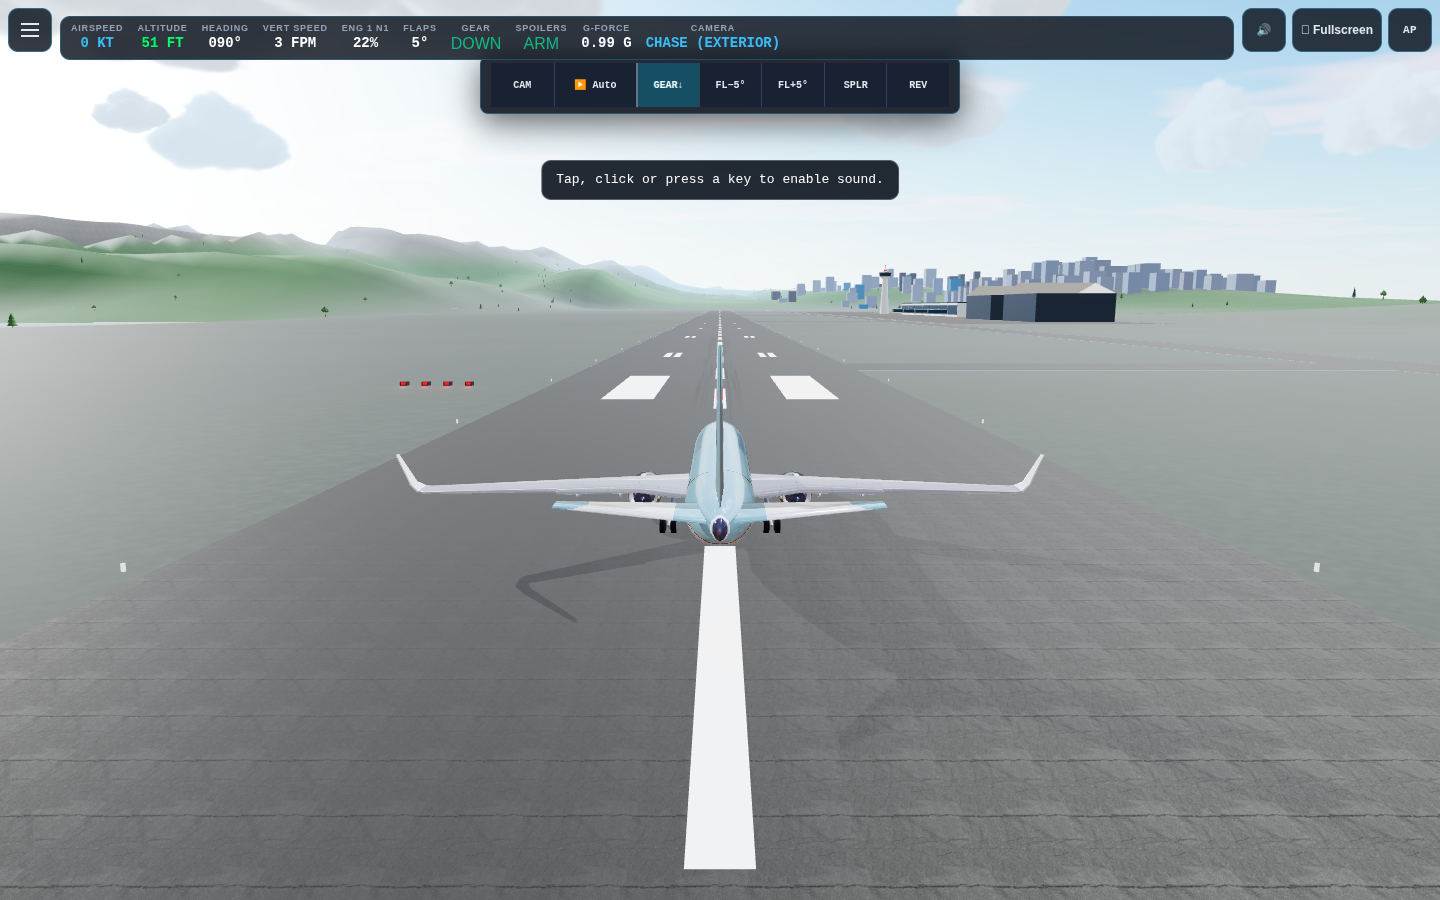
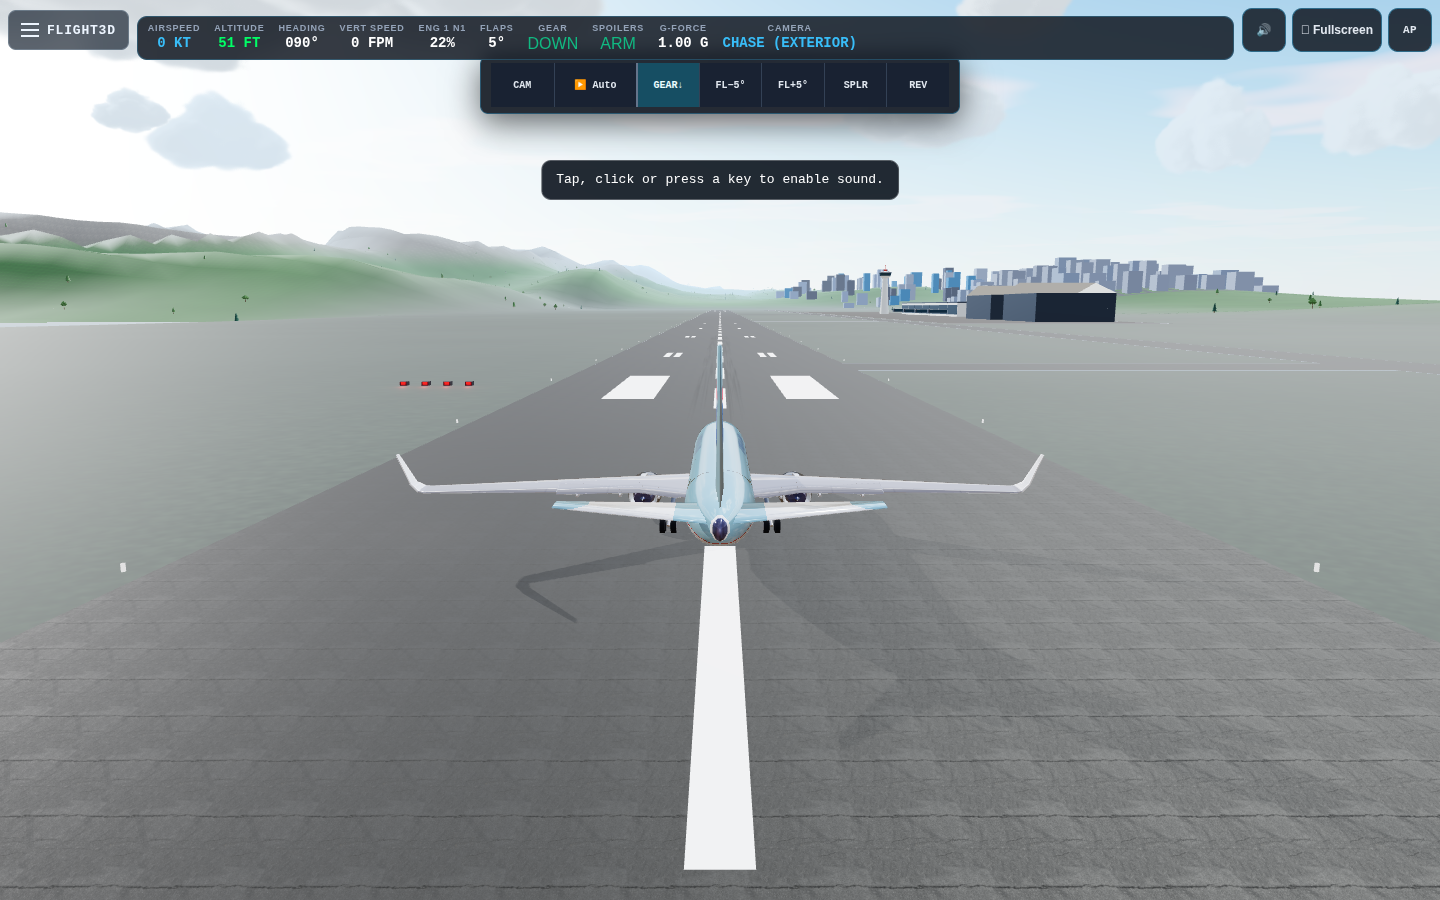
feat: align HUD chrome with balanced transparent layout and eliminate mobile overlap

Changed region(s): [[0.0, 0.0, 0.5938, 0.0933], [0.5312, 0.28, 0.875, 0.3422], [0.875, 0.3111, 0.9062, 0.3422]]

diff --git a/src/styles/lobby-and-overlays.css b/src/styles/lobby-and-overlays.css
@@ -222,23 +222,29 @@ body.booting .menu-toggle { display: none !important; }
   display: inline-flex;
   align-items: center;
   justify-content: center;
-  width: 44px;
-  height: 44px;
-  padding: 0;
-  border-radius: 10px;
-  border: 1px solid rgba(56, 189, 248, 0.4);
-  background: rgba(10, 16, 26, 0.82);
-  color: #e2e8f0;
+  gap: 8px;
+  min-width: 44px;
+  height: 40px;
+  padding: 0 12px;
+  border-radius: 8px;
+  border: 1px solid rgba(181, 211, 234, 0.25);
+  background: rgba(10, 22, 36, 0.65);
+  backdrop-filter: blur(12px);
+  -webkit-backdrop-filter: blur(12px);
+  color: #edf5ff;
+  font: 700 13px system-ui, sans-serif;
+  letter-spacing: 0.8px;
   cursor: pointer;
   pointer-events: auto;
   transition: background 0.2s ease, border-color 0.2s ease;
 }
+.compact-ui .menu-toggle-title { display: none; }
 /* With the strip hidden in the menu, keep its close affordance off the card. */
 body[data-flow="lobby"] .menu-toggle {
   top: var(--edge-top);
   left: var(--edge-left);
 }
-.menu-toggle:hover { background: rgba(30, 41, 59, 0.95); border-color: #38bdf8; }
+.menu-toggle:hover { background: rgba(30, 41, 59, 0.85); border-color: #38bdf8; }
 .menu-toggle:focus-visible { outline: 2px solid #67e8f9; }
 .menu-toggle .menu-toggle-glyph { font-size: 19px; line-height: 1; }
 .menu-toggle-glyph:empty::before {
@@ -456,71 +462,142 @@ body[data-flow="lobby"] #incheon-attribution-chip { display: none; }
 #hud-view { position: fixed; inset: 0; pointer-events: none; color: #edf5ff; z-index: 60; }
 #hud-view[hidden], #hud-view [hidden] { display: none !important; }
 .hud-flight-glass { position: absolute; inset: 0; width: 100%; height: 100%; }
-#hud-view button, .hud-control-card, .hud-camera-switch, .hud-flight-footer, .hud-systems-panel {
-  background: rgba(12, 27, 44, .80); border: 1px solid rgba(181, 211, 234, .40); border-radius: 9px;
-  box-shadow: 0 2px 8px #0002; color: #edf5ff;
-}
-#hud-view button { pointer-events: auto; min-height: 44px; padding: 10px; font: 600 12px system-ui; cursor: pointer; }
-#hud-view button:hover:not(:disabled), #hud-view button:focus-visible { background: #24465e; outline: 2px solid #a9f59a; outline-offset: 2px; }
-#hud-view button:disabled { color: #96a3b3; background: rgba(21, 33, 48, .72); border-color: #68798c80; cursor: default; box-shadow: none; }
-#hud-view button[aria-pressed="true"], #hud-view button.is-active { border-color: #b8ff9b; color: #b8ff9b; }
-.hud-camera-switch { position: absolute; top: var(--edge-top); right: var(--edge-right); display: flex; align-items: center; gap: 10px; font: 12px system-ui; pointer-events: auto; }
-#hud-view .hud-camera-switch button { border: 0; background: transparent; font-size: 25px; min-width: 44px; padding: 0; }
-.hud-camera-switch b { margin-left: 10px; }
-.hud-side { position: absolute; top: max(80px, 17%); width: 112px; display: grid; gap: 9px; pointer-events: none; }
-.hud-side-left { left: var(--edge-left); }
-.hud-side-right { right: var(--edge-right); }
-.hud-control-card { display: grid; text-align: center; padding: 10px 0 0; gap: 5px; font: 600 12px system-ui; overflow: hidden; }
-.hud-control-card output { font: 19px monospace; }
-.hud-pair { display: flex; }
-#hud-view .hud-pair button { width: 50%; border-radius: 0; border-width: 1px 0 0; font-size: 20px; background: transparent; }
-#hud-view .hud-pair button + button { border-left-width: 1px; }
-.hud-unavailable { display: grid; gap: 5px; }
-.hud-unavailable small { font-size: 10px; font-weight: 400; }
-.hud-unavailable small::before { content: '⊘ '; }
-.hud-flight-footer { position: absolute; bottom: var(--edge-bottom); left: var(--edge-left); right: var(--edge-right); display: grid; grid-template-columns: repeat(6, minmax(0, 1fr)); padding: 12px 0; }
-.hud-flight-footer > div { display: grid; text-align: center; gap: 5px; font: 11px monospace; color: #a8b8c8; }
-.hud-flight-footer > div + div { border-left: 1px solid #64748b; }
-.hud-flight-footer output { font: 600 21px monospace; color: #edf5ff; }
-.hud-systems-panel { position: absolute; top: max(133px, calc(17% + 54px)); right: calc(var(--edge-right) + 124px); width: 210px; padding: 8px; display: grid; gap: 6px; pointer-events: auto; max-height: calc(100dvh - 200px); overflow-y: auto; }
-/* HUD camera mode: shares the exact same telemetry strip, top header, and control dock */
-#hud-view .hud-side,
-#hud-view .hud-camera-switch,
-#hud-view .hud-flight-footer {
+
+body.hud-camera-mode .hud-strip,
+body.hud-camera-mode .flight-toolbar,
+body.hud-camera-mode .hud-top-actions {
   display: none !important;
 }
-body:is([data-flow="lobby"], [data-flow="paused"], .booting) #hud-view { display: none; }
-@media (max-width: 700px) {
-  .hud-side { width: 74px; top: 76px; gap: 6px; }
-  #hud-view .hud-side button { font-size: 10px; padding: 5px 3px; }
-  .hud-control-card { padding-top: 5px; font-size: 10px; gap: 2px; }
-  .hud-control-card output { font-size: 15px; }
-  #hud-view .hud-pair button { font-size: 18px; }
-  .hud-unavailable small { font-size: 9px; }
-  .hud-flight-footer { grid-template-columns: repeat(3, minmax(0, 1fr)); padding: 7px 0; row-gap: 8px; }
-  .hud-flight-footer > div { font-size: 9px; gap: 2px; }
-  .hud-flight-footer > div:nth-child(4) { border-left: 0; }
-  .hud-flight-footer output { font-size: 14px; }
-  .hud-camera-switch { gap: 0; }
-  .hud-camera-switch b { margin-left: 5px; }
-  .hud-systems-panel { right: calc(var(--edge-right) + 80px); top: 126px; width: min(210px, calc(100vw - 100px)); }
-  body.hud-camera-mode .ap-bar { top: 76px; width: 74px; }
-  body.hud-camera-mode .ap-panel { right: 80px; top: 50px; width: min(260px, calc(100vw - 100px)); }
-  body.hud-camera-mode.touch-mode .hud-flight-footer { bottom: calc(var(--edge-bottom) + 172px); }
+
+/* Semi-transparent frosted glass cards and controls */
+#hud-view button, .hud-control-card, .hud-camera-switch, .hud-flight-footer, .hud-systems-panel {
+  background: rgba(10, 22, 36, 0.65);
+  backdrop-filter: blur(12px);
+  -webkit-backdrop-filter: blur(12px);
+  border: 1px solid rgba(181, 211, 234, 0.25);
+  border-radius: 8px;
+  box-shadow: 0 4px 16px rgba(0, 0, 0, 0.35);
+  color: #edf5ff;
 }
-@media (max-height: 550px) {
-  .hud-side { top: 64px; gap: 4px; width: 98px; }
-  .hud-side-right { grid-template-columns: repeat(2, minmax(0, 1fr)); width: 174px; }
-  #hud-view .hud-side button { font-size: 9px; padding: 4px; }
-  .hud-control-card { padding-top: 3px; gap: 2px; }
+#hud-view button { pointer-events: auto; min-height: 40px; padding: 8px; font: 600 12px system-ui; cursor: pointer; transition: background 0.15s, border-color 0.15s; }
+#hud-view button:hover:not(:disabled), #hud-view button:focus-visible { background: rgba(36, 70, 94, 0.85); border-color: #38bdf8; outline: 2px solid #38bdf8; outline-offset: 1px; }
+#hud-view button:disabled { color: #94a3b8; opacity: 0.6; cursor: default; box-shadow: none; }
+#hud-view button[aria-pressed="true"], #hud-view button.is-active { border-color: #4ade80; color: #4ade80; background: rgba(16, 50, 36, 0.75); }
+
+/* Top Center Mode / Status Pill */
+.hud-center-badge {
+  position: absolute;
+  top: var(--edge-top, 8px);
+  left: 50%;
+  transform: translateX(-50%);
+  display: inline-flex;
+  align-items: center;
+  justify-content: center;
+  padding: 6px 16px;
+  font: 600 12px system-ui, sans-serif;
+  letter-spacing: 0.6px;
+  color: #e2e8f0;
+  background: rgba(10, 22, 36, 0.65);
+  backdrop-filter: blur(12px);
+  -webkit-backdrop-filter: blur(12px);
+  border: 1px solid rgba(181, 211, 234, 0.25);
+  border-radius: 20px;
+  pointer-events: auto;
+  z-index: 65;
+}
+
+/* Top Right Camera Switch */
+.hud-camera-switch {
+  position: absolute;
+  top: var(--edge-top, 8px);
+  right: var(--edge-right, 8px);
+  display: flex;
+  align-items: center;
+  gap: 8px;
+  height: 40px;
+  padding: 0 10px;
+  font: 600 12px system-ui;
+  pointer-events: auto;
+}
+#hud-view .hud-camera-switch button { border: 0; background: transparent; font-size: 22px; min-width: 32px; padding: 0; color: #94a3b8; }
+#hud-view .hud-camera-switch button:hover { color: #edf5ff; background: transparent; }
+.hud-camera-switch b { margin-left: 6px; color: #ffffff; }
+
+/* Left & Right Side Columns */
+.hud-side { position: absolute; top: max(76px, 15%); width: 104px; display: grid; gap: 8px; pointer-events: none; }
+.hud-side-left { left: var(--edge-left, 8px); }
+.hud-side-right { right: var(--edge-right, 8px); width: 114px; }
+.hud-control-card { display: grid; text-align: center; padding: 8px 0 0; gap: 4px; font: 600 11px system-ui; overflow: hidden; }
+.hud-control-card output { font: 17px monospace; font-weight: 700; color: #ffffff; }
+.hud-pair { display: flex; }
+#hud-view .hud-pair button { width: 50%; border-radius: 0; border-width: 1px 0 0; font-size: 18px; background: transparent; min-height: 32px; padding: 0; }
+#hud-view .hud-pair button + button { border-left-width: 1px; }
+.hud-unavailable { display: grid; gap: 2px; }
+.hud-unavailable small { font-size: 9px; font-weight: 400; color: #94a3b8; }
+.hud-unavailable small::before { content: '🔒 '; }
+
+/* Bottom Full-Width Telemetry Strip */
+.hud-flight-footer {
+  position: absolute;
+  bottom: var(--edge-bottom, 8px);
+  left: var(--edge-left, 8px);
+  right: var(--edge-right, 8px);
+  display: grid;
+  grid-template-columns: repeat(6, minmax(0, 1fr));
+  align-items: center;
+  padding: 8px 0;
+  box-shadow: 0 8px 32px rgba(0, 0, 0, 0.4);
+}
+.hud-flight-footer > div { display: grid; text-align: center; gap: 4px; font: 10px monospace; color: #94a3b8; letter-spacing: 0.5px; }
+.hud-flight-footer > div + div { border-left: 1px solid rgba(148, 163, 184, 0.25); }
+.hud-flight-footer output { font: 700 18px monospace; color: #ffffff; }
+
+.hud-systems-panel { position: absolute; top: max(133px, calc(17% + 54px)); right: calc(var(--edge-right) + 124px); width: 210px; padding: 8px; display: grid; gap: 6px; pointer-events: auto; max-height: calc(100dvh - 200px); overflow-y: auto; }
+body:is([data-flow="lobby"], [data-flow="paused"], .booting) #hud-view { display: none; }
+
+/* Responsive adjustments for mobile: ensure ZERO overlapping */
+@media (max-width: 768px) {
+  .hud-side { width: 72px; top: 68px; gap: 6px; }
+  .hud-side-right { width: 84px; }
+  #hud-view .hud-side button { font-size: 10px; min-height: 36px; padding: 4px; }
+  .hud-control-card { padding-top: 4px; font-size: 10px; gap: 2px; }
   .hud-control-card output { font-size: 14px; }
-  .hud-flight-footer { padding: 6px 0; }
-  .hud-flight-footer output { font-size: 14px; }
-  .hud-flight-footer > div { font-size: 9px; }
-  body.hud-camera-mode .ap-bar { top: 64px; width: 85px; right: calc(var(--edge-right) + 89px); }
-  body.hud-camera-mode .ap-panel { right: 0; top: 48px; max-height: calc(100dvh - 130px); }
-  .hud-systems-panel { right: var(--edge-right); top: 112px; max-height: calc(100dvh - 175px); }
-  body.hud-camera-mode.touch-mode .hud-flight-footer { top: var(--edge-top); bottom: auto; left: calc(var(--edge-left) + 52px); right: calc(var(--edge-right) + 180px); }
+  .hud-unavailable { display: none !important; }
+  .hud-flight-footer { grid-template-columns: repeat(6, minmax(0, 1fr)); padding: 6px 0; }
+  .hud-flight-footer > div { font-size: 8px; gap: 2px; }
+  .hud-flight-footer output { font-size: 13px; }
+}
+
+@media (max-height: 520px) {
+  .hud-side { top: 52px; gap: 4px; width: 78px; }
+  .hud-side-right { width: 84px; }
+  .hud-unavailable { display: none !important; }
+  #hud-view .hud-side button { font-size: 9px; min-height: 30px; padding: 2px; }
+  .hud-control-card { padding-top: 2px; font-size: 9px; gap: 1px; }
+  .hud-control-card output { font-size: 13px; }
+  .hud-flight-footer { padding: 4px 0; }
+  .hud-flight-footer output { font-size: 13px; }
+  .hud-flight-footer > div { font-size: 8px; }
+  .touch-mode #hud-view .hud-flight-footer {
+    left: calc(var(--edge-left) + 80px);
+    right: calc(var(--edge-right) + 110px);
+    border-radius: 8px;
+  }
+}
+
+@media (max-width: 540px) {
+  .hud-side-left { top: 52px; width: 68px; gap: 4px; }
+  .hud-side-right { top: 52px; width: 76px; gap: 4px; }
+  .hud-unavailable { display: none !important; }
+  .touch-mode #hud-view .hud-flight-footer {
+    left: var(--edge-left);
+    right: var(--edge-right);
+    bottom: calc(var(--edge-bottom) + 140px);
+    grid-template-columns: repeat(3, minmax(0, 1fr));
+    row-gap: 4px;
+    padding: 4px;
+  }
+  .touch-mode #hud-view .hud-flight-footer > div:nth-child(4) { border-left: 0; }
 }
 
 

diff --git a/src/ui/HudView.js b/src/ui/HudView.js
@@ -16,6 +16,7 @@ export class HudView {
         <button type="button" id="hud-camera-prev">‹</button><span>CAM <b>HUD</b></span>
         <button type="button" id="hud-camera-next">›</button>
       </nav>
+      <div class="hud-center-badge"><span id="hud-badge-title">HUD CAM · 시안</span></div>
       <div class="hud-side hud-side-left">
         <div class="hud-control-card"><span data-hud-label="hud.trim"></span><output id="hud-trim-value"></output>
           <div class="hud-pair"><button type="button" id="hud-trim-less">−</button><button type="button" id="hud-trim-more">+</button></div></div>

diff --git a/index.html b/index.html
@@ -167,6 +167,7 @@
   <!-- Persistent main-menu toggle (top-left): opens the menu over the flight and hides it again -->
   <button id="menu-toggle" class="menu-toggle" type="button" aria-label="Open main menu">
     <span class="menu-toggle-glyph" aria-hidden="true"></span>
+    <span class="menu-toggle-title">FLIGHT3D</span>
   </button>
 
   <!-- Lobby / main menu over the live cinematic -->
